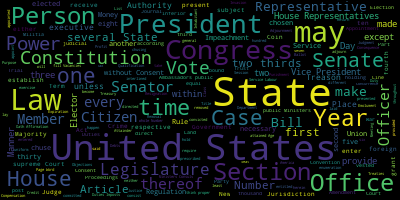
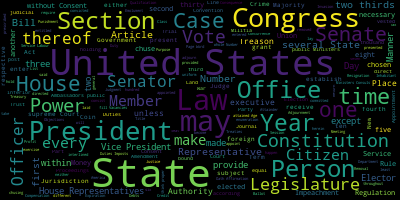
Site updated: 2017-08-25 18:26:06

diff --git a/2017/08/22/python-jieba-wordcloud/index.html b/2017/08/22/python-jieba-wordcloud/index.html
@@ -123,7 +123,8 @@ import jiebaseg_list = jieba.cut(srcWd, cut_all=True)print(u&apos;Full mode:&apo
 <meta property="og:image" content="https://brantou.github.io/images/constitution-n.png">
 <meta property="og:image" content="https://brantou.github.io/images/constitution-s.png">
 <meta property="og:image" content="https://brantou.github.io/images/xiyouji.png">
-<meta property="og:updated_time" content="2017-08-25T10:06:53.385Z">
+<meta property="og:image" content="https://brantou.github.io/images/xiyouji-mask.png">
+<meta property="og:updated_time" content="2017-08-25T10:25:33.066Z">
 <meta name="twitter:card" content="summary">
 <meta name="twitter:title" content="玩转词云">
 <meta name="twitter:description" content="1 jieba中文分词&amp;#x2013;做最好的Python中文分词组件
@@ -465,12 +466,12 @@ import jiebaseg_list = jieba.cut(srcWd, cut_all=True)print(u&apos;Full mode:&apo
         
 
 
-<div id="outline-container-org763267f" class="outline-2">
-<h2 id="org763267f"><a id="ID-681fffd0-61dc-44eb-860a-82cfbfe2c080"></a><span class="section-number-2">1</span> jieba中文分词&#x2013;做最好的Python中文分词组件</h2>
+<div id="outline-container-org070a5ba" class="outline-2">
+<h2 id="org070a5ba"><a id="ID-681fffd0-61dc-44eb-860a-82cfbfe2c080"></a><span class="section-number-2">1</span> jieba中文分词&#x2013;做最好的Python中文分词组件</h2>
 <div class="outline-text-2" id="text-1">
 </div>
-<div id="outline-container-orgca9dead" class="outline-3">
-<h3 id="orgca9dead"><a id="ID-a7a6f9a3-eee0-4e7a-8ec2-a3281cbdb2ba"></a><span class="section-number-3">1.1</span> 分词</h3>
+<div id="outline-container-org3a57d0c" class="outline-3">
+<h3 id="org3a57d0c"><a id="ID-a7a6f9a3-eee0-4e7a-8ec2-a3281cbdb2ba"></a><span class="section-number-3">1.1</span> 分词</h3>
 <div class="outline-text-3" id="text-1-1">
 <div class="org-src-container">
 <figure class="highlight python"><table><tr><td class="code"><pre><span class="line"><span class="keyword">import</span> jieba</span><br><span class="line"></span><br><span class="line">seg_list = jieba.cut(srcWd, cut_all=<span class="keyword">True</span>)</span><br><span class="line">print(<span class="string">u'Full mode:'</span> + <span class="string">u'/ '</span>.join(seg_list))</span><br><span class="line"></span><br><span class="line">seg_list = jieba.cut(srcWd, cut_all=<span class="keyword">False</span>)</span><br><span class="line">print(<span class="string">u'Default mode:'</span> + <span class="string">u'/ '</span>.join(seg_list))</span><br><span class="line"></span><br><span class="line">seg_list = jieba.cut_for_search(srcWd)</span><br><span class="line">print(<span class="string">u', '</span>.join(seg_list))</span><br></pre></td></tr></table></figure>
@@ -491,8 +492,8 @@ Default mode:我/ 目前/ 在/ 学习/ Golang/ 和/ Python/ 。
 </pre>
 </div>
 </div>
-<div id="outline-container-org6f34877" class="outline-3">
-<h3 id="org6f34877"><a id="ID-ba473993-dd11-4116-8578-b31a6161ed0e"></a><span class="section-number-3">1.2</span> 自定义词典</h3>
+<div id="outline-container-orga263f2f" class="outline-3">
+<h3 id="orga263f2f"><a id="ID-ba473993-dd11-4116-8578-b31a6161ed0e"></a><span class="section-number-3">1.2</span> 自定义词典</h3>
 <div class="outline-text-3" id="text-1-2">
 <p>
 招聘信息收集了很多，但是关键字提取却不是很理想，我查看了jiaba的词典里，基本没有对英文专有名词的支持，
@@ -517,8 +518,8 @@ Default mode:我/ 目前/ 在/ 学习/ Golang/ 和/ Python/ 。
 </div>
 </div>
 
-<div id="outline-container-orgb4d8353" class="outline-3">
-<h3 id="orgb4d8353"><a id="ID-0f9f838d-0b96-4d20-bbd0-f9b31664e187"></a><span class="section-number-3">1.3</span> 调整词典</h3>
+<div id="outline-container-orgfebade0" class="outline-3">
+<h3 id="orgfebade0"><a id="ID-0f9f838d-0b96-4d20-bbd0-f9b31664e187"></a><span class="section-number-3">1.3</span> 调整词典</h3>
 <div class="outline-text-3" id="text-1-3">
 <div class="org-src-container">
 <figure class="highlight python"><table><tr><td class="code"><pre><span class="line"><span class="keyword">import</span> jieba</span><br><span class="line"><span class="keyword">import</span> jieba.analyse</span><br><span class="line"></span><br><span class="line">print(<span class="string">', '</span>.join(</span><br><span class="line">    jieba.analyse.extract_tags(srcWd, allowPOS=(<span class="string">'n'</span>, <span class="string">'nz'</span>, <span class="string">'eng'</span>, <span class="string">'vn'</span>))))</span><br><span class="line">jieba.load_userdict(<span class="string">'../resource/userdict.txt'</span>)</span><br><span class="line">print(<span class="string">', '</span>.join(</span><br><span class="line">    jieba.analyse.extract_tags(srcWd, allowPOS=(<span class="string">'n'</span>, <span class="string">'nz'</span>, <span class="string">'eng'</span>, <span class="string">'vn'</span>))))</span><br></pre></td></tr></table></figure>
@@ -532,8 +533,8 @@ Default mode:我/ 目前/ 在/ 学习/ Golang/ 和/ Python/ 。
 </div>
 </div>
 
-<div id="outline-container-org35bbb3d" class="outline-3">
-<h3 id="org35bbb3d"><a id="ID-7308abe6-a074-4153-a4c0-bb74f199bb07"></a><span class="section-number-3">1.4</span> 关键词提取</h3>
+<div id="outline-container-org9c075c7" class="outline-3">
+<h3 id="org9c075c7"><a id="ID-7308abe6-a074-4153-a4c0-bb74f199bb07"></a><span class="section-number-3">1.4</span> 关键词提取</h3>
 <div class="outline-text-3" id="text-1-4">
 <div class="org-src-container">
 <figure class="highlight python"><table><tr><td class="code"><pre><span class="line"><span class="keyword">import</span> jieba.analyse</span><br><span class="line"></span><br><span class="line">print(<span class="string">', '</span>.join(jieba.analyse.extract_tags(srcWd, allowPOS=())))</span><br><span class="line">print(<span class="string">', '</span>.join(</span><br><span class="line">    jieba.analyse.extract_tags(srcWd, allowPOS=(<span class="string">'n'</span>, <span class="string">'nt'</span>, <span class="string">'nz'</span>, <span class="string">'eng'</span>, <span class="string">'vn'</span></span><br><span class="line">                                                ))))</span><br><span class="line">wordlst = jieba.analyse.extract_tags(</span><br><span class="line">    srcWd, withWeight=<span class="keyword">True</span>, allowPOS=(<span class="string">'n'</span>, <span class="string">'nt'</span>, <span class="string">'nz'</span>, <span class="string">'eng'</span>, <span class="string">'vn'</span>))</span><br><span class="line"></span><br><span class="line"><span class="keyword">for</span> word <span class="keyword">in</span> wordlst:</span><br><span class="line">    print(word[<span class="number">0</span>] + <span class="string">": "</span> + str(word[<span class="number">1</span>]))</span><br></pre></td></tr></table></figure>
@@ -557,8 +558,8 @@ Default mode:我/ 目前/ 在/ 学习/ Golang/ 和/ Python/ 。
 </div>
 </div>
 
-<div id="outline-container-org784aebe" class="outline-3">
-<h3 id="org784aebe"><a id="ID-ba65f4b7-159b-440a-9df3-ac90465716e4"></a><span class="section-number-3">1.5</span> 词性标注</h3>
+<div id="outline-container-org4fae528" class="outline-3">
+<h3 id="org4fae528"><a id="ID-ba65f4b7-159b-440a-9df3-ac90465716e4"></a><span class="section-number-3">1.5</span> 词性标注</h3>
 <div class="outline-text-3" id="text-1-5">
 <div class="org-src-container">
 <figure class="highlight python"><table><tr><td class="code"><pre><span class="line"><span class="keyword">import</span> jieba</span><br><span class="line"><span class="keyword">import</span> jieba.posseg <span class="keyword">as</span> pseg</span><br><span class="line"></span><br><span class="line">jieba.load_userdict(<span class="string">'../resource/userdict.txt'</span>)</span><br><span class="line">words = pseg.cut(srcWd)</span><br><span class="line"><span class="keyword">for</span> word, flag <span class="keyword">in</span> words:</span><br><span class="line">    print(<span class="string">'%s %s'</span> % (word, flag))</span><br></pre></td></tr></table></figure>
@@ -647,16 +648,16 @@ hive nz
 </div>
 </div>
 
-<div id="outline-container-orge4828f1" class="outline-2">
-<h2 id="orge4828f1"><a id="ID-d3a8f6d2-c043-4104-9f83-08e71a7a5c7a"></a><span class="section-number-2">2</span> 词云</h2>
+<div id="outline-container-orgddae448" class="outline-2">
+<h2 id="orgddae448"><a id="ID-d3a8f6d2-c043-4104-9f83-08e71a7a5c7a"></a><span class="section-number-2">2</span> 词云</h2>
 <div class="outline-text-2" id="text-2">
 </div>
 
-<div id="outline-container-org4d91b07" class="outline-3">
-<h3 id="org4d91b07"><a id="ID-9133f12f-f7ba-4019-b21f-fbdea70088b1"></a><span class="section-number-3">2.1</span> 简单词云&#x2013;美国宪法的词云</h3>
+<div id="outline-container-org54c588b" class="outline-3">
+<h3 id="org54c588b"><a id="ID-9133f12f-f7ba-4019-b21f-fbdea70088b1"></a><span class="section-number-3">2.1</span> 简单词云&#x2013;美国宪法的词云</h3>
 <div class="outline-text-3" id="text-2-1">
 <div class="org-src-container">
-<figure class="highlight python"><table><tr><td class="code"><pre><span class="line"><span class="string">"""</span><br><span class="line">Minimal Example</span><br><span class="line">===============</span><br><span class="line">Generating a square wordcloud from the US constitution using default arguments.</span><br><span class="line">"""</span></span><br><span class="line"></span><br><span class="line"><span class="keyword">from</span> wordcloud <span class="keyword">import</span> WordCloud</span><br><span class="line"></span><br><span class="line"><span class="comment"># Read the whole text.</span></span><br><span class="line">text = open(<span class="string">'../resource/constitution.txt'</span>).read()</span><br><span class="line"></span><br><span class="line"><span class="comment"># Generate a word cloud image</span></span><br><span class="line">wordcloud = WordCloud().generate(text)</span><br><span class="line">wordcloud.to_file(<span class="string">'../images/constitution-n.png'</span>)</span><br><span class="line"></span><br><span class="line">wordcloud = WordCloud(max_font_size=<span class="number">40</span>).generate(text)</span><br><span class="line">wordcloud.to_file(<span class="string">'../images/constitution-s.png'</span>)</span><br></pre></td></tr></table></figure>
+<figure class="highlight python"><table><tr><td class="code"><pre><span class="line"><span class="string">"""</span><br><span class="line">Minimal Example</span><br><span class="line">===============</span><br><span class="line">Generating a square wordcloud from the US constitution using default arguments.</span><br><span class="line">"""</span></span><br><span class="line"></span><br><span class="line"><span class="keyword">from</span> wordcloud <span class="keyword">import</span> WordCloud</span><br><span class="line"></span><br><span class="line"><span class="comment"># Read the whole text.</span></span><br><span class="line">text = open(<span class="string">'../resource/constitution.txt'</span>).read()</span><br><span class="line"></span><br><span class="line"><span class="comment"># Generate a word cloud image</span></span><br><span class="line">wordcloud = WordCloud(width=<span class="number">640</span>, height = <span class="number">480</span>,).generate(text)</span><br><span class="line">wordcloud.to_file(<span class="string">'../images/constitution-n.png'</span>)</span><br><span class="line"></span><br><span class="line">wordcloud = WordCloud(max_font_size=<span class="number">40</span>).generate(text)</span><br><span class="line">wordcloud.to_file(<span class="string">'../images/constitution-s.png'</span>)</span><br></pre></td></tr></table></figure>
 </div>
 
 <img src="/images/constitution-n.png">
@@ -665,19 +666,21 @@ hive nz
 </div>
 </div>
 
-<div id="outline-container-orgd9194d0" class="outline-3">
-<h3 id="orgd9194d0"><a id="ID-a83e73b6-c132-4eb3-b968-d985cd2a5ceb"></a><span class="section-number-3">2.2</span> 西游记的词云</h3>
+<div id="outline-container-orgea4ae10" class="outline-3">
+<h3 id="orgea4ae10"><a id="ID-a83e73b6-c132-4eb3-b968-d985cd2a5ceb"></a><span class="section-number-3">2.2</span> 西游记的词云</h3>
 <div class="outline-text-3" id="text-2-2">
 <div class="org-src-container">
-<figure class="highlight python"><table><tr><td class="code"><pre><span class="line"><span class="keyword">import</span> jieba.analyse</span><br><span class="line"><span class="keyword">from</span> wordcloud <span class="keyword">import</span> WordCloud</span><br><span class="line"></span><br><span class="line">text = open(<span class="string">'../resource/xiyouji.txt'</span>).read()</span><br><span class="line">words = jieba.analyse.extract_tags(text, topK=<span class="number">100</span>, withWeight=<span class="keyword">True</span>)</span><br><span class="line"></span><br><span class="line">word_freqs = {}</span><br><span class="line"><span class="keyword">for</span> word <span class="keyword">in</span> words:</span><br><span class="line">    word_freqs[word[<span class="number">0</span>]] = word[<span class="number">1</span>]</span><br><span class="line"></span><br><span class="line">wordcloud = WordCloud(</span><br><span class="line">    font_path=<span class="string">'../resource/tyzkaishu.ttf'</span>, width=<span class="number">640</span>,</span><br><span class="line">    height=<span class="number">480</span>).generate_from_frequencies(word_freqs)</span><br><span class="line">wordcloud.to_file(<span class="string">'../images/xiyouji.png'</span>)</span><br></pre></td></tr></table></figure>
+<figure class="highlight python"><table><tr><td class="code"><pre><span class="line"><span class="keyword">import</span> jieba.analyse</span><br><span class="line"><span class="keyword">from</span> wordcloud <span class="keyword">import</span> WordCloud</span><br><span class="line"><span class="keyword">import</span> numpy <span class="keyword">as</span> np</span><br><span class="line"><span class="keyword">from</span> PIL <span class="keyword">import</span> Image</span><br><span class="line"></span><br><span class="line">font_path = <span class="string">'../resource/tyzkaishu.ttf'</span></span><br><span class="line">width = <span class="number">640</span></span><br><span class="line">height = <span class="number">480</span></span><br><span class="line"></span><br><span class="line">text = open(<span class="string">'../resource/xiyouji.txt'</span>).read()</span><br><span class="line">words = jieba.analyse.extract_tags(text, topK=<span class="number">100</span>, withWeight=<span class="keyword">True</span>)</span><br><span class="line"></span><br><span class="line">word_freqs = {}</span><br><span class="line"><span class="keyword">for</span> word <span class="keyword">in</span> words:</span><br><span class="line">    word_freqs[word[<span class="number">0</span>]] = word[<span class="number">1</span>]</span><br><span class="line"></span><br><span class="line">wordcloud = WordCloud(</span><br><span class="line">    font_path=font_path, width=width,</span><br><span class="line">    height=height).generate_from_frequencies(word_freqs)</span><br><span class="line">wordcloud.to_file(<span class="string">'../images/xiyouji.png'</span>)</span><br><span class="line"></span><br><span class="line">mask = np.array(Image.open(<span class="string">'../resource/stormtrooper_mask.png'</span>))</span><br><span class="line">wordcloud = WordCloud(</span><br><span class="line">    background_color=<span class="string">"white"</span>,</span><br><span class="line">    font_path=font_path,</span><br><span class="line">    width=width,</span><br><span class="line">    height=height,</span><br><span class="line">    mask=mask).generate_from_frequencies(word_freqs)</span><br><span class="line">wordcloud.to_file(<span class="string">'../images/xiyouji-mask.png'</span>)</span><br></pre></td></tr></table></figure>
 </div>
 
 <img src="/images/xiyouji.png">
+
+<img src="/images/xiyouji-mask.png">
 </div>
 </div>
 </div>
 
-Last Updated 2017-08-25 Fri 18:06.<br>Render by <a href="https://github.com/CodeFalling/hexo-renderer-org" rel="external nofollow noopener noreferrer" target="_blank">hexo-renderer-org</a> with <a href="http://www.gnu.org/software/emacs/" rel="external nofollow noopener noreferrer" target="_blank">Emacs</a> 24.5.1 (<a href="http://orgmode.org" rel="external nofollow noopener noreferrer" target="_blank">Org</a> mode 9.0.6)
+Last Updated 2017-08-25 Fri 18:25.<br>Render by <a href="https://github.com/CodeFalling/hexo-renderer-org" rel="external nofollow noopener noreferrer" target="_blank">hexo-renderer-org</a> with <a href="http://www.gnu.org/software/emacs/" rel="external nofollow noopener noreferrer" target="_blank">Emacs</a> 24.5.1 (<a href="http://orgmode.org" rel="external nofollow noopener noreferrer" target="_blank">Org</a> mode 9.0.6)
 
       
     </div>
@@ -939,7 +942,7 @@ Last Updated 2017-08-25 Fri 18:06.<br>Render by <a href="https://github.com/Code
             
 
             
-              <div class="post-toc-content"><ol class="nav"><li class="nav-item nav-level-2"><a class="nav-link" href="#org763267f"><span class="nav-text">1 jieba中文分词–做最好的Python中文分词组件</span></a><ol class="nav-child"><li class="nav-item nav-level-3"><a class="nav-link" href="#orgca9dead"><span class="nav-text">1.1 分词</span></a></li><li class="nav-item nav-level-3"><a class="nav-link" href="#org6f34877"><span class="nav-text">1.2 自定义词典</span></a></li><li class="nav-item nav-level-3"><a class="nav-link" href="#orgb4d8353"><span class="nav-text">1.3 调整词典</span></a></li><li class="nav-item nav-level-3"><a class="nav-link" href="#org35bbb3d"><span class="nav-text">1.4 关键词提取</span></a></li><li class="nav-item nav-level-3"><a class="nav-link" href="#org784aebe"><span class="nav-text">1.5 词性标注</span></a></li></ol></li><li class="nav-item nav-level-2"><a class="nav-link" href="#orge4828f1"><span class="nav-text">2 词云</span></a><ol class="nav-child"><li class="nav-item nav-level-3"><a class="nav-link" href="#org4d91b07"><span class="nav-text">2.1 简单词云–美国宪法的词云</span></a></li><li class="nav-item nav-level-3"><a class="nav-link" href="#orgd9194d0"><span class="nav-text">2.2 西游记的词云</span></a></li></ol></li></ol></div>
+              <div class="post-toc-content"><ol class="nav"><li class="nav-item nav-level-2"><a class="nav-link" href="#org070a5ba"><span class="nav-text">1 jieba中文分词–做最好的Python中文分词组件</span></a><ol class="nav-child"><li class="nav-item nav-level-3"><a class="nav-link" href="#org3a57d0c"><span class="nav-text">1.1 分词</span></a></li><li class="nav-item nav-level-3"><a class="nav-link" href="#orga263f2f"><span class="nav-text">1.2 自定义词典</span></a></li><li class="nav-item nav-level-3"><a class="nav-link" href="#orgfebade0"><span class="nav-text">1.3 调整词典</span></a></li><li class="nav-item nav-level-3"><a class="nav-link" href="#org9c075c7"><span class="nav-text">1.4 关键词提取</span></a></li><li class="nav-item nav-level-3"><a class="nav-link" href="#org4fae528"><span class="nav-text">1.5 词性标注</span></a></li></ol></li><li class="nav-item nav-level-2"><a class="nav-link" href="#orgddae448"><span class="nav-text">2 词云</span></a><ol class="nav-child"><li class="nav-item nav-level-3"><a class="nav-link" href="#org54c588b"><span class="nav-text">2.1 简单词云–美国宪法的词云</span></a></li><li class="nav-item nav-level-3"><a class="nav-link" href="#orgea4ae10"><span class="nav-text">2.2 西游记的词云</span></a></li></ol></li></ol></div>
             
 
           </div>

diff --git a/index.html b/index.html
@@ -440,12 +440,12 @@
             
 
 
-<div id="outline-container-org763267f" class="outline-2">
-<h2 id="org763267f"><a id="ID-681fffd0-61dc-44eb-860a-82cfbfe2c080"></a><span class="section-number-2">1</span> jieba中文分词&#x2013;做最好的Python中文分词组件</h2>
+<div id="outline-container-org070a5ba" class="outline-2">
+<h2 id="org070a5ba"><a id="ID-681fffd0-61dc-44eb-860a-82cfbfe2c080"></a><span class="section-number-2">1</span> jieba中文分词&#x2013;做最好的Python中文分词组件</h2>
 <div class="outline-text-2" id="text-1">
 </div>
-<div id="outline-container-orgca9dead" class="outline-3">
-<h3 id="orgca9dead"><a id="ID-a7a6f9a3-eee0-4e7a-8ec2-a3281cbdb2ba"></a><span class="section-number-3">1.1</span> 分词</h3>
+<div id="outline-container-org3a57d0c" class="outline-3">
+<h3 id="org3a57d0c"><a id="ID-a7a6f9a3-eee0-4e7a-8ec2-a3281cbdb2ba"></a><span class="section-number-3">1.1</span> 分词</h3>
 <div class="outline-text-3" id="text-1-1">
 <div class="org-src-container">
 <figure class="highlight python"><table><tr><td class="code"><pre><span class="line"><span class="keyword">import</span> jieba</span><br><span class="line"></span><br><span class="line">seg_list = jieba.cut(srcWd, cut_all=<span class="keyword">True</span>)</span><br><span class="line">print(<span class="string">u'Full mode:'</span> + <span class="string">u'/ '</span>.join(seg_list))</span><br><span class="line"></span><br><span class="line">seg_list = jieba.cut(srcWd, cut_all=<span class="keyword">False</span>)</span><br><span class="line">print(<span class="string">u'Default mode:'</span> + <span class="string">u'/ '</span>.join(seg_list))</span><br><span class="line"></span><br><span class="line">seg_list = jieba.cut_for_search(srcWd)</span><br><span class="line">print(<span class="string">u', '</span>.join(seg_list))</span><br></pre></td></tr></table></figure>
@@ -466,8 +466,8 @@ Default mode:我/ 目前/ 在/ 学习/ Golang/ 和/ Python/ 。
 </pre>
 </div>
 </div>
-<div id="outline-container-org6f34877" class="outline-3">
-<h3 id="org6f34877"><a id="ID-ba473993-dd11-4116-8578-b31a6161ed0e"></a><span class="section-number-3">1.2</span> 自定义词典</h3>
+<div id="outline-container-orga263f2f" class="outline-3">
+<h3 id="orga263f2f"><a id="ID-ba473993-dd11-4116-8578-b31a6161ed0e"></a><span class="section-number-3">1.2</span> 自定义词典</h3>
 <div class="outline-text-3" id="text-1-2">
 <p>
 招聘信息收集了很多，但是关键字提取却不是很理想，我查看了jiaba的词典里，基本没有对英文专有名词的支持，
@@ -492,8 +492,8 @@ Default mode:我/ 目前/ 在/ 学习/ Golang/ 和/ Python/ 。
 </div>
 </div>
 
-<div id="outline-container-orgb4d8353" class="outline-3">
-<h3 id="orgb4d8353"><a id="ID-0f9f838d-0b96-4d20-bbd0-f9b31664e187"></a><span class="section-number-3">1.3</span> 调整词典</h3>
+<div id="outline-container-orgfebade0" class="outline-3">
+<h3 id="orgfebade0"><a id="ID-0f9f838d-0b96-4d20-bbd0-f9b31664e187"></a><span class="section-number-3">1.3</span> 调整词典</h3>
 <div class="outline-text-3" id="text-1-3">
 <div class="org-src-container">
 <figure class="highlight python"><table><tr><td class="code"><pre><span class="line"><span class="keyword">import</span> jieba</span><br><span class="line"><span class="keyword">import</span> jieba.analyse</span><br><span class="line"></span><br><span class="line">print(<span class="string">', '</span>.join(</span><br><span class="line">    jieba.analyse.extract_tags(srcWd, allowPOS=(<span class="string">'n'</span>, <span class="string">'nz'</span>, <span class="string">'eng'</span>, <span class="string">'vn'</span>))))</span><br><span class="line">jieba.load_userdict(<span class="string">'../resource/userdict.txt'</span>)</span><br><span class="line">print(<span class="string">', '</span>.join(</span><br><span class="line">    jieba.analyse.extract_tags(srcWd, allowPOS=(<span class="string">'n'</span>, <span class="string">'nz'</span>, <span class="string">'eng'</span>, <span class="string">'vn'</span>))))</span><br></pre></td></tr></table></figure>
@@ -507,8 +507,8 @@ Default mode:我/ 目前/ 在/ 学习/ Golang/ 和/ Python/ 。
 </div>
 </div>
 
-<div id="outline-container-org35bbb3d" class="outline-3">
-<h3 id="org35bbb3d"><a id="ID-7308abe6-a074-4153-a4c0-bb74f199bb07"></a><span class="section-number-3">1.4</span> 关键词提取</h3>
+<div id="outline-container-org9c075c7" class="outline-3">
+<h3 id="org9c075c7"><a id="ID-7308abe6-a074-4153-a4c0-bb74f199bb07"></a><span class="section-number-3">1.4</span> 关键词提取</h3>
 <div class="outline-text-3" id="text-1-4">
 <div class="org-src-container">
 <figure class="highlight python"><table><tr><td class="code"><pre><span class="line"><span class="keyword">import</span> jieba.analyse</span><br><span class="line"></span><br><span class="line">print(<span class="string">', '</span>.join(jieba.analyse.extract_tags(srcWd, allowPOS=())))</span><br><span class="line">print(<span class="string">', '</span>.join(</span><br><span class="line">    jieba.analyse.extract_tags(srcWd, allowPOS=(<span class="string">'n'</span>, <span class="string">'nt'</span>, <span class="string">'nz'</span>, <span class="string">'eng'</span>, <span class="string">'vn'</span></span><br><span class="line">                                                ))))</span><br><span class="line">wordlst = jieba.analyse.extract_tags(</span><br><span class="line">    srcWd, withWeight=<span class="keyword">True</span>, allowPOS=(<span class="string">'n'</span>, <span class="string">'nt'</span>, <span class="string">'nz'</span>, <span class="string">'eng'</span>, <span class="string">'vn'</span>))</span><br><span class="line"></span><br><span class="line"><span class="keyword">for</span> word <span class="keyword">in</span> wordlst:</span><br><span class="line">    print(word[<span class="number">0</span>] + <span class="string">": "</span> + str(word[<span class="number">1</span>]))</span><br></pre></td></tr></table></figure>
@@ -532,8 +532,8 @@ Default mode:我/ 目前/ 在/ 学习/ Golang/ 和/ Python/ 。
 </div>
 </div>
 
-<div id="outline-container-org784aebe" class="outline-3">
-<h3 id="org784aebe"><a id="ID-ba65f4b7-159b-440a-9df3-ac90465716e4"></a><span class="section-number-3">1.5</span> 词性标注</h3>
+<div id="outline-container-org4fae528" class="outline-3">
+<h3 id="org4fae528"><a id="ID-ba65f4b7-159b-440a-9df3-ac90465716e4"></a><span class="section-number-3">1.5</span> 词性标注</h3>
 <div class="outline-text-3" id="text-1-5">
 <div class="org-src-container">
 <figure class="highlight python"><table><tr><td class="code"><pre><span class="line"><span class="keyword">import</span> jieba</span><br><span class="line"><span class="keyword">import</span> jieba.posseg <span class="keyword">as</span> pseg</span><br><span class="line"></span><br><span class="line">jieba.load_userdict(<span class="string">'../resource/userdict.txt'</span>)</span><br><span class="line">words = pseg.cut(srcWd)</span><br><span class="line"><span class="keyword">for</span> word, flag <span class="keyword">in</span> words:</span><br><span class="line">    print(<span class="string">'%s %s'</span> % (word, flag))</span><br></pre></td></tr></table></figure>
@@ -622,16 +622,16 @@ hive nz
 </div>
 </div>
 
-<div id="outline-container-orge4828f1" class="outline-2">
-<h2 id="orge4828f1"><a id="ID-d3a8f6d2-c043-4104-9f83-08e71a7a5c7a"></a><span class="section-number-2">2</span> 词云</h2>
+<div id="outline-container-orgddae448" class="outline-2">
+<h2 id="orgddae448"><a id="ID-d3a8f6d2-c043-4104-9f83-08e71a7a5c7a"></a><span class="section-number-2">2</span> 词云</h2>
 <div class="outline-text-2" id="text-2">
 </div>
 
-<div id="outline-container-org4d91b07" class="outline-3">
-<h3 id="org4d91b07"><a id="ID-9133f12f-f7ba-4019-b21f-fbdea70088b1"></a><span class="section-number-3">2.1</span> 简单词云&#x2013;美国宪法的词云</h3>
+<div id="outline-container-org54c588b" class="outline-3">
+<h3 id="org54c588b"><a id="ID-9133f12f-f7ba-4019-b21f-fbdea70088b1"></a><span class="section-number-3">2.1</span> 简单词云&#x2013;美国宪法的词云</h3>
 <div class="outline-text-3" id="text-2-1">
 <div class="org-src-container">
-<figure class="highlight python"><table><tr><td class="code"><pre><span class="line"><span class="string">"""</span><br><span class="line">Minimal Example</span><br><span class="line">===============</span><br><span class="line">Generating a square wordcloud from the US constitution using default arguments.</span><br><span class="line">"""</span></span><br><span class="line"></span><br><span class="line"><span class="keyword">from</span> wordcloud <span class="keyword">import</span> WordCloud</span><br><span class="line"></span><br><span class="line"><span class="comment"># Read the whole text.</span></span><br><span class="line">text = open(<span class="string">'../resource/constitution.txt'</span>).read()</span><br><span class="line"></span><br><span class="line"><span class="comment"># Generate a word cloud image</span></span><br><span class="line">wordcloud = WordCloud().generate(text)</span><br><span class="line">wordcloud.to_file(<span class="string">'../images/constitution-n.png'</span>)</span><br><span class="line"></span><br><span class="line">wordcloud = WordCloud(max_font_size=<span class="number">40</span>).generate(text)</span><br><span class="line">wordcloud.to_file(<span class="string">'../images/constitution-s.png'</span>)</span><br></pre></td></tr></table></figure>
+<figure class="highlight python"><table><tr><td class="code"><pre><span class="line"><span class="string">"""</span><br><span class="line">Minimal Example</span><br><span class="line">===============</span><br><span class="line">Generating a square wordcloud from the US constitution using default arguments.</span><br><span class="line">"""</span></span><br><span class="line"></span><br><span class="line"><span class="keyword">from</span> wordcloud <span class="keyword">import</span> WordCloud</span><br><span class="line"></span><br><span class="line"><span class="comment"># Read the whole text.</span></span><br><span class="line">text = open(<span class="string">'../resource/constitution.txt'</span>).read()</span><br><span class="line"></span><br><span class="line"><span class="comment"># Generate a word cloud image</span></span><br><span class="line">wordcloud = WordCloud(width=<span class="number">640</span>, height = <span class="number">480</span>,).generate(text)</span><br><span class="line">wordcloud.to_file(<span class="string">'../images/constitution-n.png'</span>)</span><br><span class="line"></span><br><span class="line">wordcloud = WordCloud(max_font_size=<span class="number">40</span>).generate(text)</span><br><span class="line">wordcloud.to_file(<span class="string">'../images/constitution-s.png'</span>)</span><br></pre></td></tr></table></figure>
 </div>
 
 <img src="/images/constitution-n.png">
@@ -640,19 +640,21 @@ hive nz
 </div>
 </div>
 
-<div id="outline-container-orgd9194d0" class="outline-3">
-<h3 id="orgd9194d0"><a id="ID-a83e73b6-c132-4eb3-b968-d985cd2a5ceb"></a><span class="section-number-3">2.2</span> 西游记的词云</h3>
+<div id="outline-container-orgea4ae10" class="outline-3">
+<h3 id="orgea4ae10"><a id="ID-a83e73b6-c132-4eb3-b968-d985cd2a5ceb"></a><span class="section-number-3">2.2</span> 西游记的词云</h3>
 <div class="outline-text-3" id="text-2-2">
 <div class="org-src-container">
-<figure class="highlight python"><table><tr><td class="code"><pre><span class="line"><span class="keyword">import</span> jieba.analyse</span><br><span class="line"><span class="keyword">from</span> wordcloud <span class="keyword">import</span> WordCloud</span><br><span class="line"></span><br><span class="line">text = open(<span class="string">'../resource/xiyouji.txt'</span>).read()</span><br><span class="line">words = jieba.analyse.extract_tags(text, topK=<span class="number">100</span>, withWeight=<span class="keyword">True</span>)</span><br><span class="line"></span><br><span class="line">word_freqs = {}</span><br><span class="line"><span class="keyword">for</span> word <span class="keyword">in</span> words:</span><br><span class="line">    word_freqs[word[<span class="number">0</span>]] = word[<span class="number">1</span>]</span><br><span class="line"></span><br><span class="line">wordcloud = WordCloud(</span><br><span class="line">    font_path=<span class="string">'../resource/tyzkaishu.ttf'</span>, width=<span class="number">640</span>,</span><br><span class="line">    height=<span class="number">480</span>).generate_from_frequencies(word_freqs)</span><br><span class="line">wordcloud.to_file(<span class="string">'../images/xiyouji.png'</span>)</span><br></pre></td></tr></table></figure>
+<figure class="highlight python"><table><tr><td class="code"><pre><span class="line"><span class="keyword">import</span> jieba.analyse</span><br><span class="line"><span class="keyword">from</span> wordcloud <span class="keyword">import</span> WordCloud</span><br><span class="line"><span class="keyword">import</span> numpy <span class="keyword">as</span> np</span><br><span class="line"><span class="keyword">from</span> PIL <span class="keyword">import</span> Image</span><br><span class="line"></span><br><span class="line">font_path = <span class="string">'../resource/tyzkaishu.ttf'</span></span><br><span class="line">width = <span class="number">640</span></span><br><span class="line">height = <span class="number">480</span></span><br><span class="line"></span><br><span class="line">text = open(<span class="string">'../resource/xiyouji.txt'</span>).read()</span><br><span class="line">words = jieba.analyse.extract_tags(text, topK=<span class="number">100</span>, withWeight=<span class="keyword">True</span>)</span><br><span class="line"></span><br><span class="line">word_freqs = {}</span><br><span class="line"><span class="keyword">for</span> word <span class="keyword">in</span> words:</span><br><span class="line">    word_freqs[word[<span class="number">0</span>]] = word[<span class="number">1</span>]</span><br><span class="line"></span><br><span class="line">wordcloud = WordCloud(</span><br><span class="line">    font_path=font_path, width=width,</span><br><span class="line">    height=height).generate_from_frequencies(word_freqs)</span><br><span class="line">wordcloud.to_file(<span class="string">'../images/xiyouji.png'</span>)</span><br><span class="line"></span><br><span class="line">mask = np.array(Image.open(<span class="string">'../resource/stormtrooper_mask.png'</span>))</span><br><span class="line">wordcloud = WordCloud(</span><br><span class="line">    background_color=<span class="string">"white"</span>,</span><br><span class="line">    font_path=font_path,</span><br><span class="line">    width=width,</span><br><span class="line">    height=height,</span><br><span class="line">    mask=mask).generate_from_frequencies(word_freqs)</span><br><span class="line">wordcloud.to_file(<span class="string">'../images/xiyouji-mask.png'</span>)</span><br></pre></td></tr></table></figure>
 </div>
 
 <img src="/images/xiyouji.png">
+
+<img src="/images/xiyouji-mask.png">
 </div>
 </div>
 </div>
 
-Last Updated 2017-08-25 Fri 18:06.<br>Render by <a href="https://github.com/CodeFalling/hexo-renderer-org" rel="external nofollow noopener noreferrer" target="_blank">hexo-renderer-org</a> with <a href="http://www.gnu.org/software/emacs/" rel="external nofollow noopener noreferrer" target="_blank">Emacs</a> 24.5.1 (<a href="http://orgmode.org" rel="external nofollow noopener noreferrer" target="_blank">Org</a> mode 9.0.6)
+Last Updated 2017-08-25 Fri 18:25.<br>Render by <a href="https://github.com/CodeFalling/hexo-renderer-org" rel="external nofollow noopener noreferrer" target="_blank">hexo-renderer-org</a> with <a href="http://www.gnu.org/software/emacs/" rel="external nofollow noopener noreferrer" target="_blank">Emacs</a> 24.5.1 (<a href="http://orgmode.org" rel="external nofollow noopener noreferrer" target="_blank">Org</a> mode 9.0.6)
 
           
         

diff --git a/about/index.html b/about/index.html
@@ -87,6 +87,8 @@
 
 
 
+  
+
 
   <link rel="alternate" href="/atom.xml" title="Brantou的日常" type="application/atom+xml">
 

diff --git a/categories/index.html b/categories/index.html
@@ -87,8 +87,6 @@
 
 
 
-  
-
 
   <link rel="alternate" href="/atom.xml" title="Brantou的日常" type="application/atom+xml">
 
